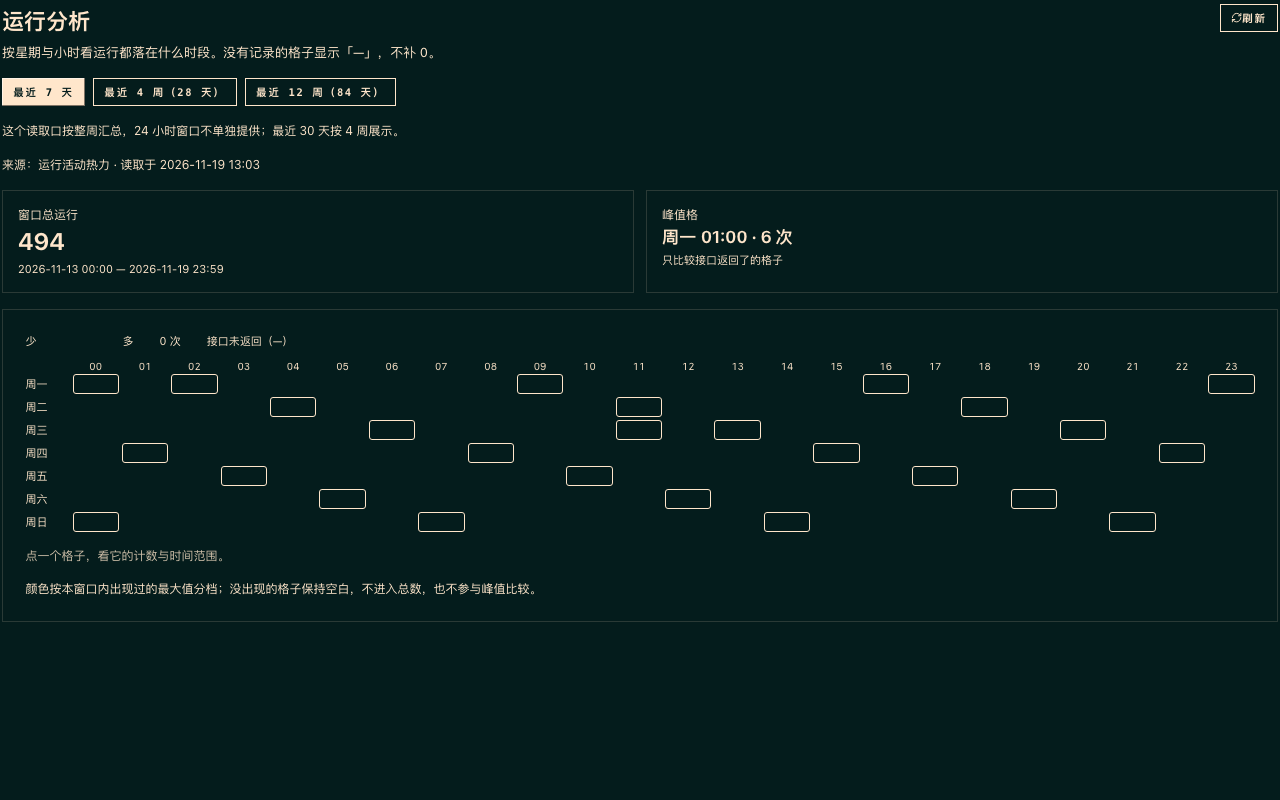
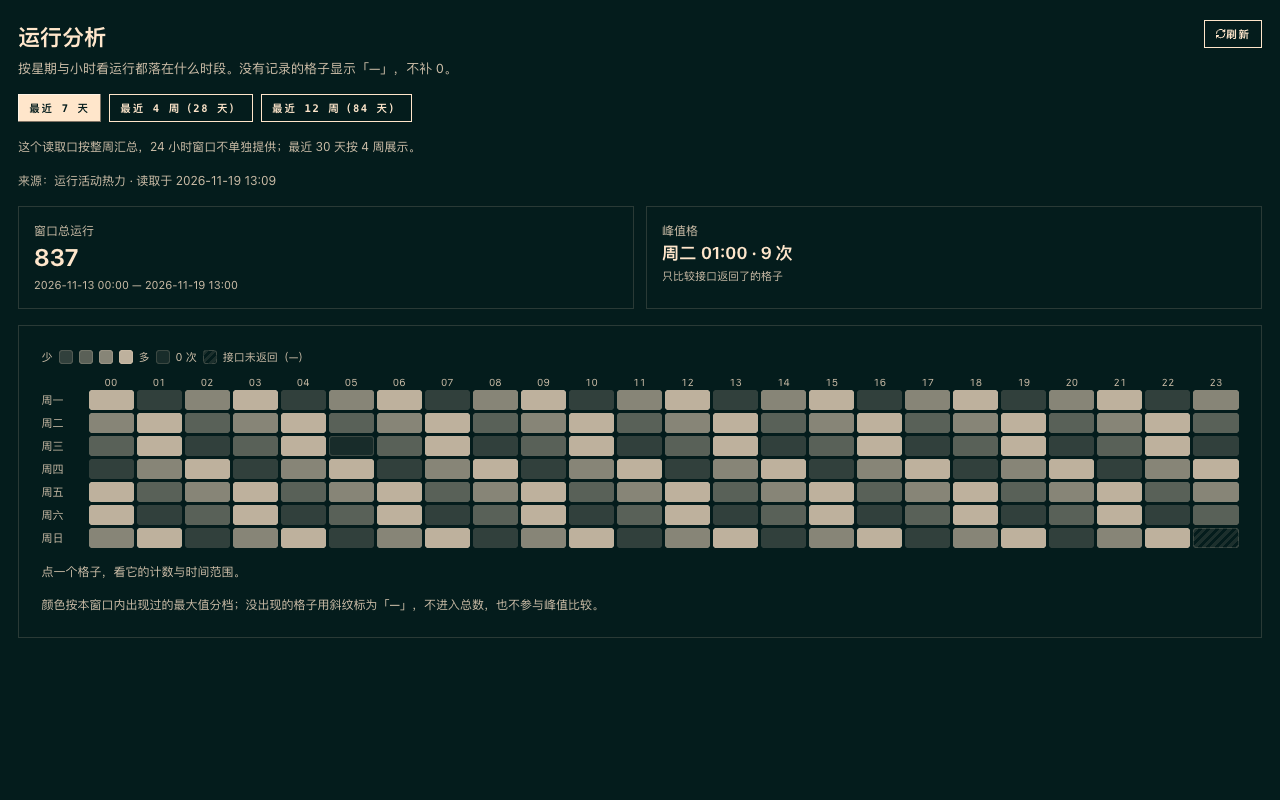
fix(console): metrics heatmap colors and mobile scroll affordance (met5)

diff --git a/web/src/modules/metrics/metrics.css b/web/src/modules/metrics/metrics.css
@@ -23,17 +23,17 @@
 .met5-head p {
   margin-top: 4px;
   max-width: 64ch;
-  color: hsl(var(--muted-foreground));
+  color: var(--color-muted-foreground);
   font-size: 13px;
 }
 
 .met5-preview {
-  border: 1px solid hsl(var(--border));
+  border: 1px solid var(--color-border);
   border-radius: var(--radius);
-  background: hsl(var(--muted) / 0.5);
+  background: color-mix(in srgb, var(--color-muted) 50%, transparent);
   padding: 8px 12px;
   font-size: 12px;
-  color: hsl(var(--muted-foreground));
+  color: var(--color-muted-foreground);
 }
 
 .met5-window {
@@ -45,12 +45,12 @@
 .met5-note {
   font-size: 12px;
   line-height: 1.5;
-  color: hsl(var(--muted-foreground));
+  color: var(--color-muted-foreground);
 }
 
 .met5-source {
   font-size: 12px;
-  color: hsl(var(--muted-foreground));
+  color: var(--color-muted-foreground);
 }
 
 .met5-summary {
@@ -65,7 +65,7 @@
 
 .met5-label {
   font-size: 12px;
-  color: hsl(var(--muted-foreground));
+  color: var(--color-muted-foreground);
 }
 
 .met5-value {
@@ -83,7 +83,7 @@
 .met5-hint {
   margin-top: 4px;
   font-size: 11px;
-  color: hsl(var(--muted-foreground));
+  color: var(--color-muted-foreground);
 }
 
 .met5-legend {
@@ -92,20 +92,26 @@
   flex-wrap: wrap;
   gap: 6px;
   font-size: 11px;
-  color: hsl(var(--muted-foreground));
+  color: var(--color-muted-foreground);
 }
 
 .met5-swatch {
   width: 14px;
   height: 14px;
   border-radius: 3px;
-  border: 1px solid hsl(var(--border));
+  border: 1px solid var(--color-border);
 }
 
 .met5-scroll {
   max-width: 100%;
   overflow-x: auto;
   padding-bottom: 4px;
+}
+
+.met5-scrollhint {
+  display: none;
+  font-size: 11px;
+  color: var(--color-muted-foreground);
 }
 
 .met5-gridwrap {
@@ -131,14 +137,14 @@
   text-align: center;
   font-size: 10px;
   line-height: 1;
-  color: hsl(var(--muted-foreground));
+  color: var(--color-muted-foreground);
   font-variant-numeric: tabular-nums;
 }
 
 .met5-day {
   width: 44px;
   font-size: 11px;
-  color: hsl(var(--muted-foreground));
+  color: var(--color-muted-foreground);
   white-space: nowrap;
 }
 
@@ -162,24 +168,24 @@
 }
 
 .met5-cell:focus-visible {
-  outline: 2px solid hsl(var(--ring));
+  outline: 2px solid var(--color-ring);
   outline-offset: 1px;
 }
 
-.met5-cell.is-l1 { background: hsl(var(--primary) / 0.18); }
-.met5-cell.is-l2 { background: hsl(var(--primary) / 0.34); }
-.met5-cell.is-l3 { background: hsl(var(--primary) / 0.52); }
-.met5-cell.is-l4 { background: hsl(var(--primary) / 0.74); }
+.met5-cell.is-l1 { background: color-mix(in srgb, var(--midground-base) 18%, transparent); }
+.met5-cell.is-l2 { background: color-mix(in srgb, var(--midground-base) 34%, transparent); }
+.met5-cell.is-l3 { background: color-mix(in srgb, var(--midground-base) 52%, transparent); }
+.met5-cell.is-l4 { background: color-mix(in srgb, var(--midground-base) 74%, transparent); }
 
-.met5-swatch.is-l1 { background: hsl(var(--primary) / 0.18); }
-.met5-swatch.is-l2 { background: hsl(var(--primary) / 0.34); }
-.met5-swatch.is-l3 { background: hsl(var(--primary) / 0.52); }
-.met5-swatch.is-l4 { background: hsl(var(--primary) / 0.74); }
+.met5-swatch.is-l1 { background: color-mix(in srgb, var(--midground-base) 18%, transparent); }
+.met5-swatch.is-l2 { background: color-mix(in srgb, var(--midground-base) 34%, transparent); }
+.met5-swatch.is-l3 { background: color-mix(in srgb, var(--midground-base) 52%, transparent); }
+.met5-swatch.is-l4 { background: color-mix(in srgb, var(--midground-base) 74%, transparent); }
 
 .met5-cell.is-zero,
 .met5-swatch.is-zero {
-  background: hsl(var(--muted));
-  border-color: hsl(var(--border));
+  background: var(--color-muted);
+  border-color: var(--color-border);
 }
 
 .met5-cell.is-missing,
@@ -187,10 +193,10 @@
   background:
     repeating-linear-gradient(
       135deg,
-      hsl(var(--muted-foreground) / 0.12) 0 3px,
+      color-mix(in srgb, var(--color-muted-foreground) 12%, transparent) 0 3px,
       transparent 3px 6px
     );
-  border-color: hsl(var(--border));
+  border-color: var(--color-border);
 }
 
 .met5-selected {
@@ -204,7 +210,7 @@
 
 .met5-skeleton {
   border-radius: 4px;
-  background: hsl(var(--muted));
+  background: var(--color-muted);
   animation: met5-pulse 1.4s ease-in-out infinite;
 }
 
@@ -225,5 +231,13 @@
 
   .met5-window {
     width: 100%;
+  }
+
+  .met5-scroll {
+    mask-image: linear-gradient(to right, #000 0, #000 calc(100% - 18px), transparent 100%);
+  }
+
+  .met5-scrollhint {
+    display: block;
   }
 }

diff --git a/web/src/modules/metrics/MetricsModulePage.tsx b/web/src/modules/metrics/MetricsModulePage.tsx
@@ -303,6 +303,7 @@ export function MetricsModulePage() {
                   </div>
                 </div>
               </div>
+              <p className="met5-scrollhint">左右滑动热力图，查看 12–23 点</p>
               <div className="met5-selected" data-testid="met5-selected" aria-live="polite">
                 {selectedCell ? (
                   <>
@@ -317,7 +318,7 @@ export function MetricsModulePage() {
                 )}
               </div>
               <p className="met5-note">
-                颜色按本窗口内出现过的最大值分档；没出现的格子保持空白，不进入总数，也不参与峰值比较。
+                颜色按本窗口内出现过的最大值分档；没出现的格子用斜纹标为「—」，不进入总数，也不参与峰值比较。
               </p>
             </CardContent>
           </Card>

diff --git a/docs/_artifacts/gov/DONE.md b/docs/_artifacts/gov/DONE.md
@@ -356,3 +356,7 @@ built /Users/kevin_studio/Projects/forks/console-gov/hermes_cli/web_dist/index.h
 - 真实 200 未取得；401 仅证明路径存在。
 - 未做 24h 窗口（端点不支持）。
 - 页面在新路由注册前仍不可达 `/metrics`。
+
+### 观察者复核修正（MET5）
+
+首轮截图复核 FAIL：热力格与图例无色块；375 右半日不可见且无滑动提示，滚动边界有半格残影。根因是 `metrics.css` 使用了本主题不存在的 `hsl(var(--primary/--muted/...))` 令牌。已改为 `color-mix(var(--midground-base))` 与 `var(--color-*)`；375 增加「左右滑动热力图，查看 12–23 点」提示与右缘渐隐。复测：168 格全部渲染（167 有底色，1 格斜纹缺失），1440/1280/375 body 均等于视口，375 仅热力容器内滚动（620/307）。截图已覆盖更新。
